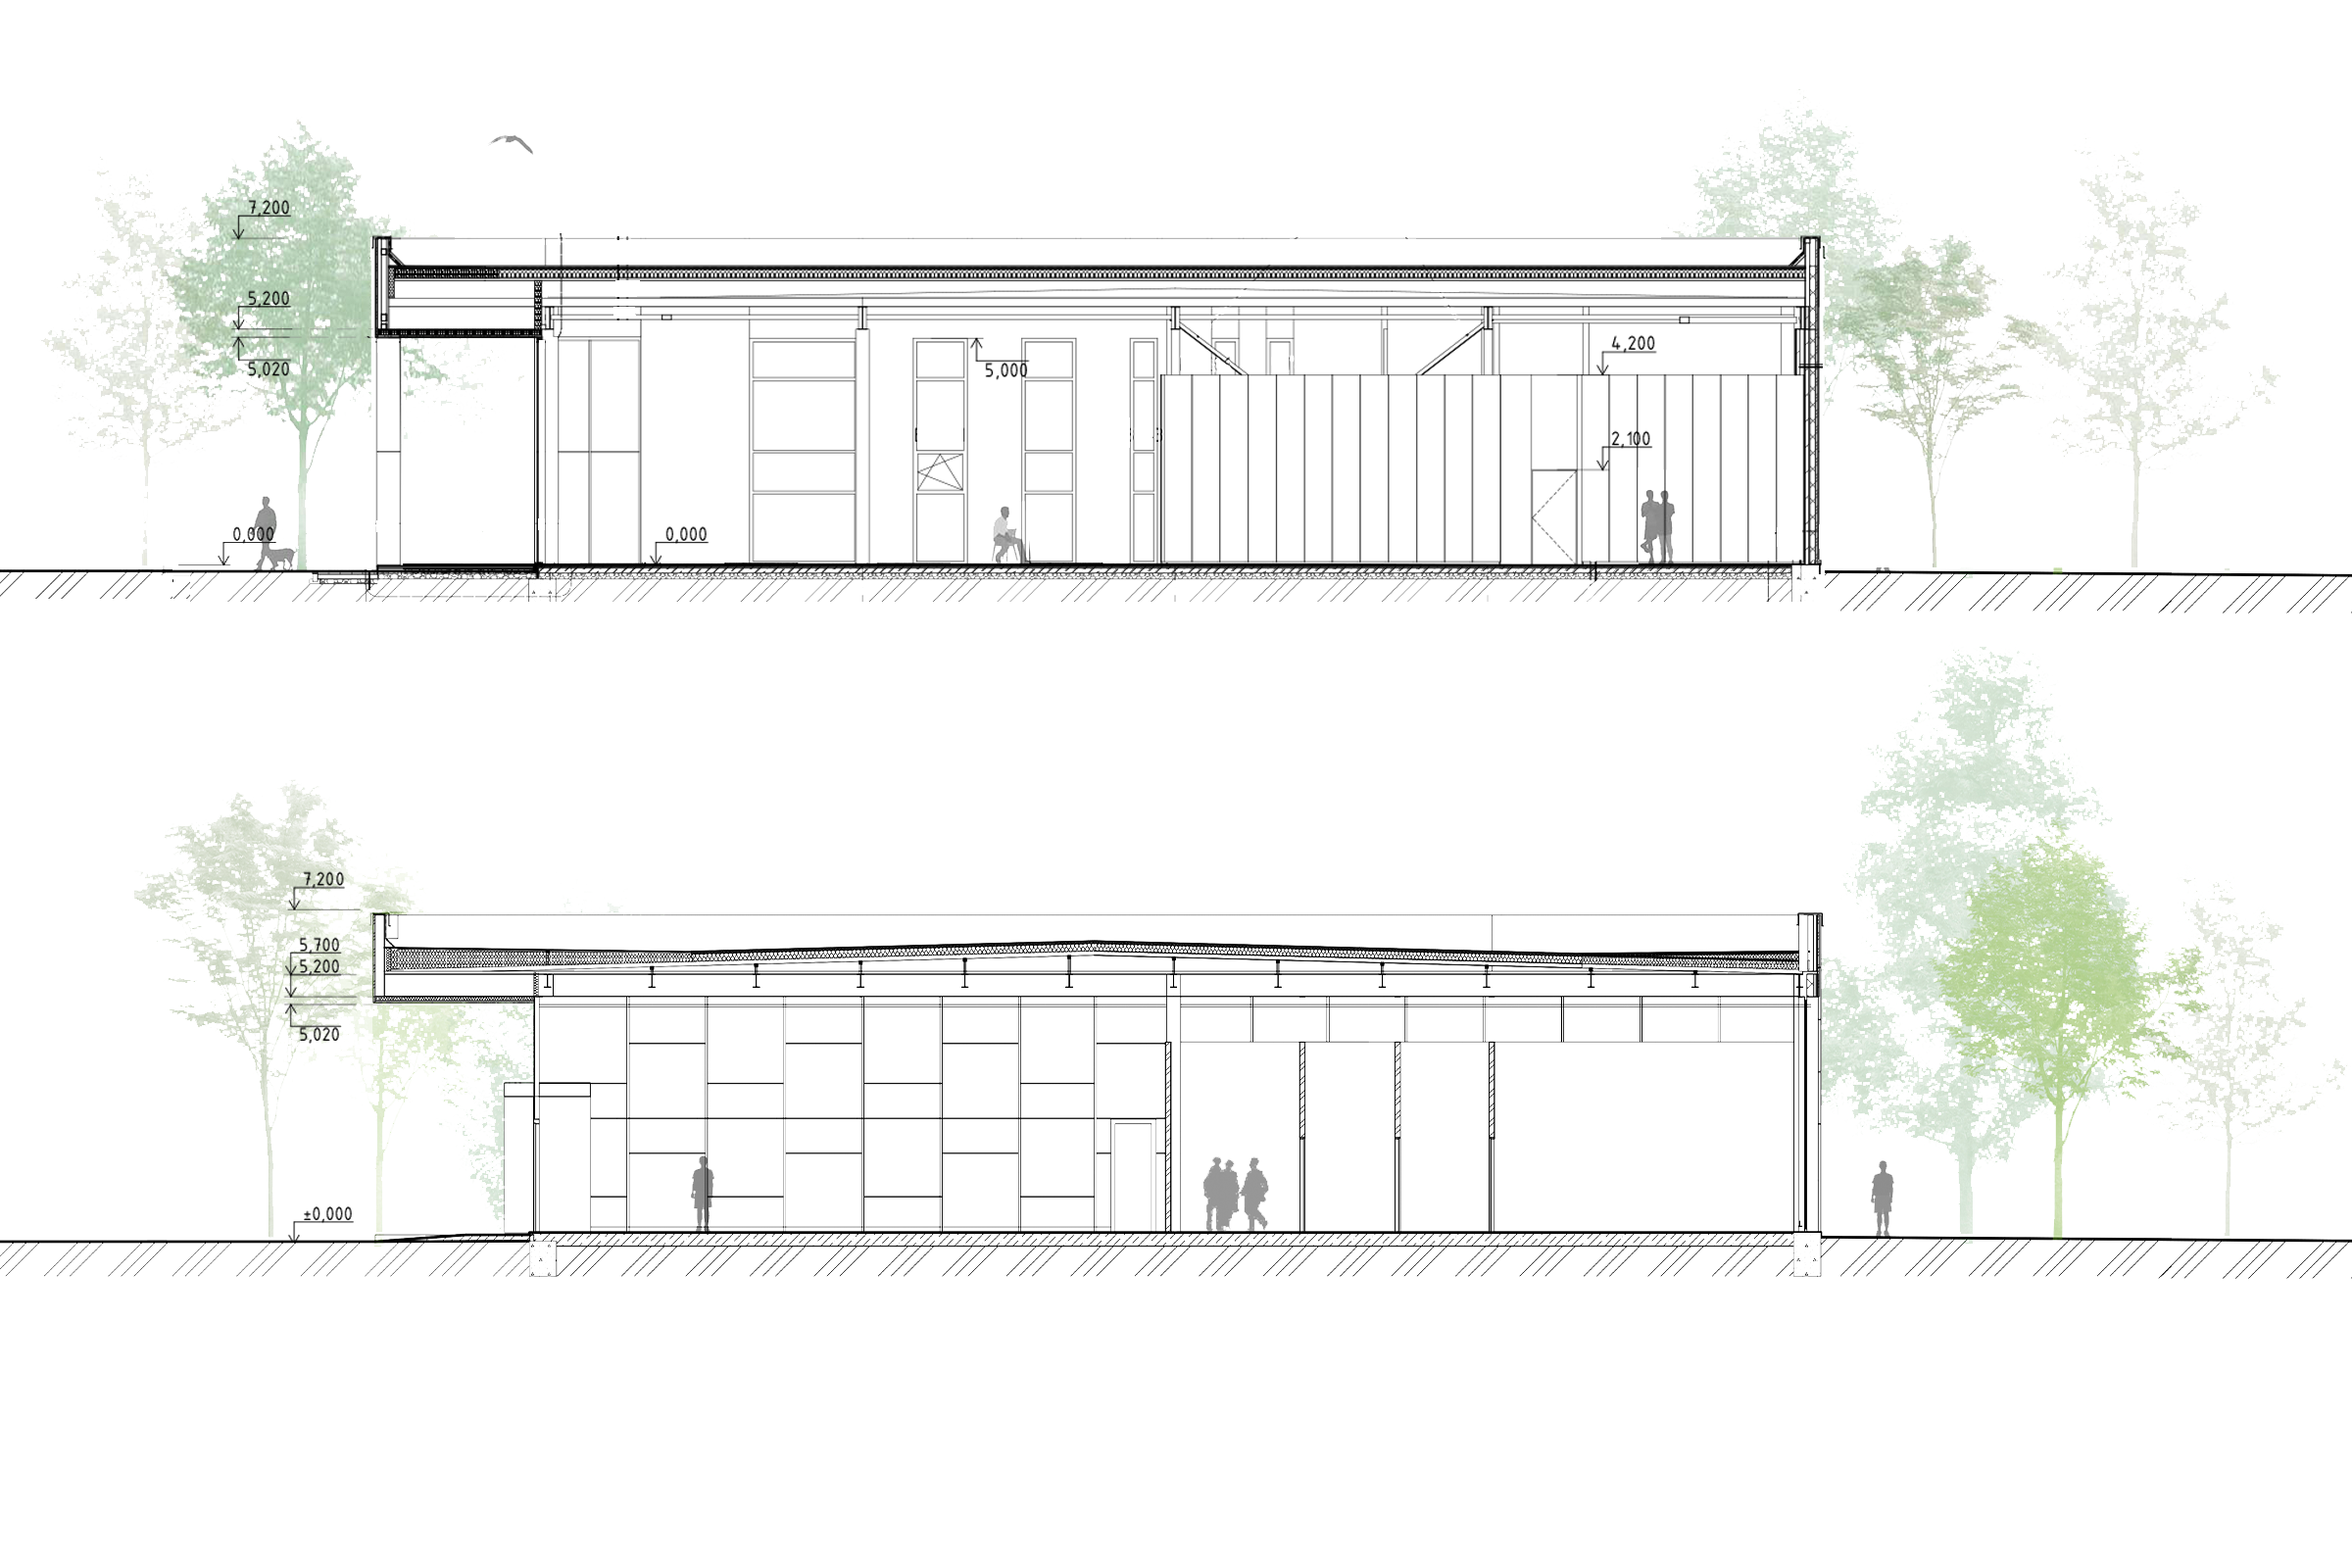
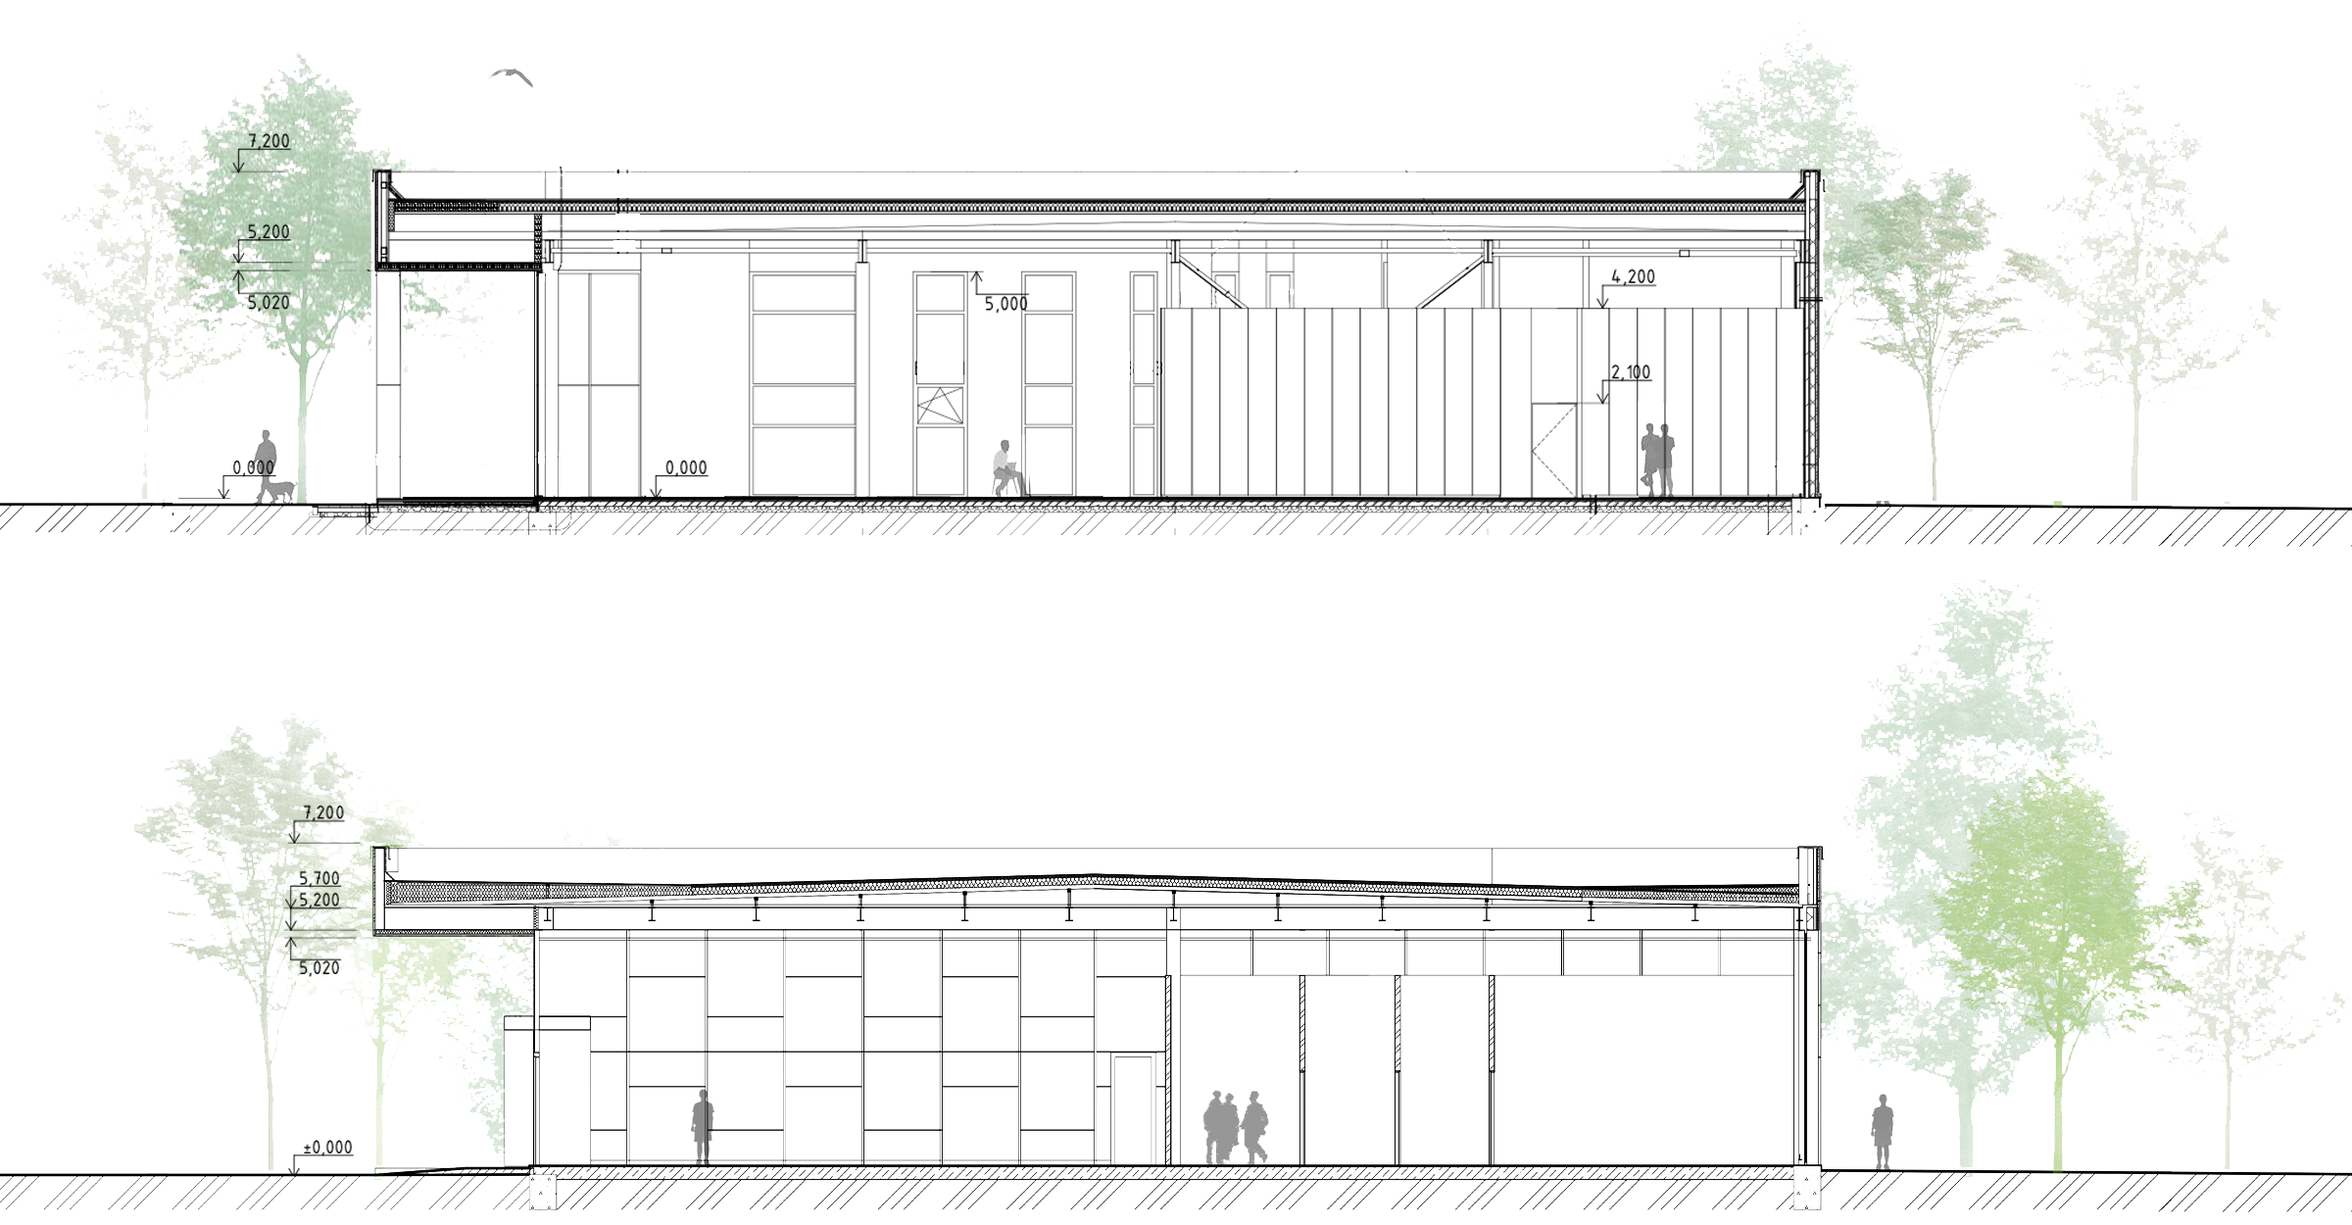
fix

Changed region(s): [[0.0, 0.0312, 1.0, 0.9672]]

diff --git a/assets/style/media.css b/assets/style/media.css
@@ -124,6 +124,9 @@
     .achievements__wrapper .achievements__block:nth-child(n+4) {
         flex: 0 0 calc(50% - 10px);
     }
+    .project-page__title{
+        font-size: 1.3rem;
+    }
 }
 
 @media (max-width: 730px) {
@@ -239,12 +242,6 @@
     }
     .project-page__section-text{
         max-width: 100%;
-    }
-}
-
-@media (max-width: 380px) {
-    .project-page__title{
-        font-size: 24px;
     }
 }
 
